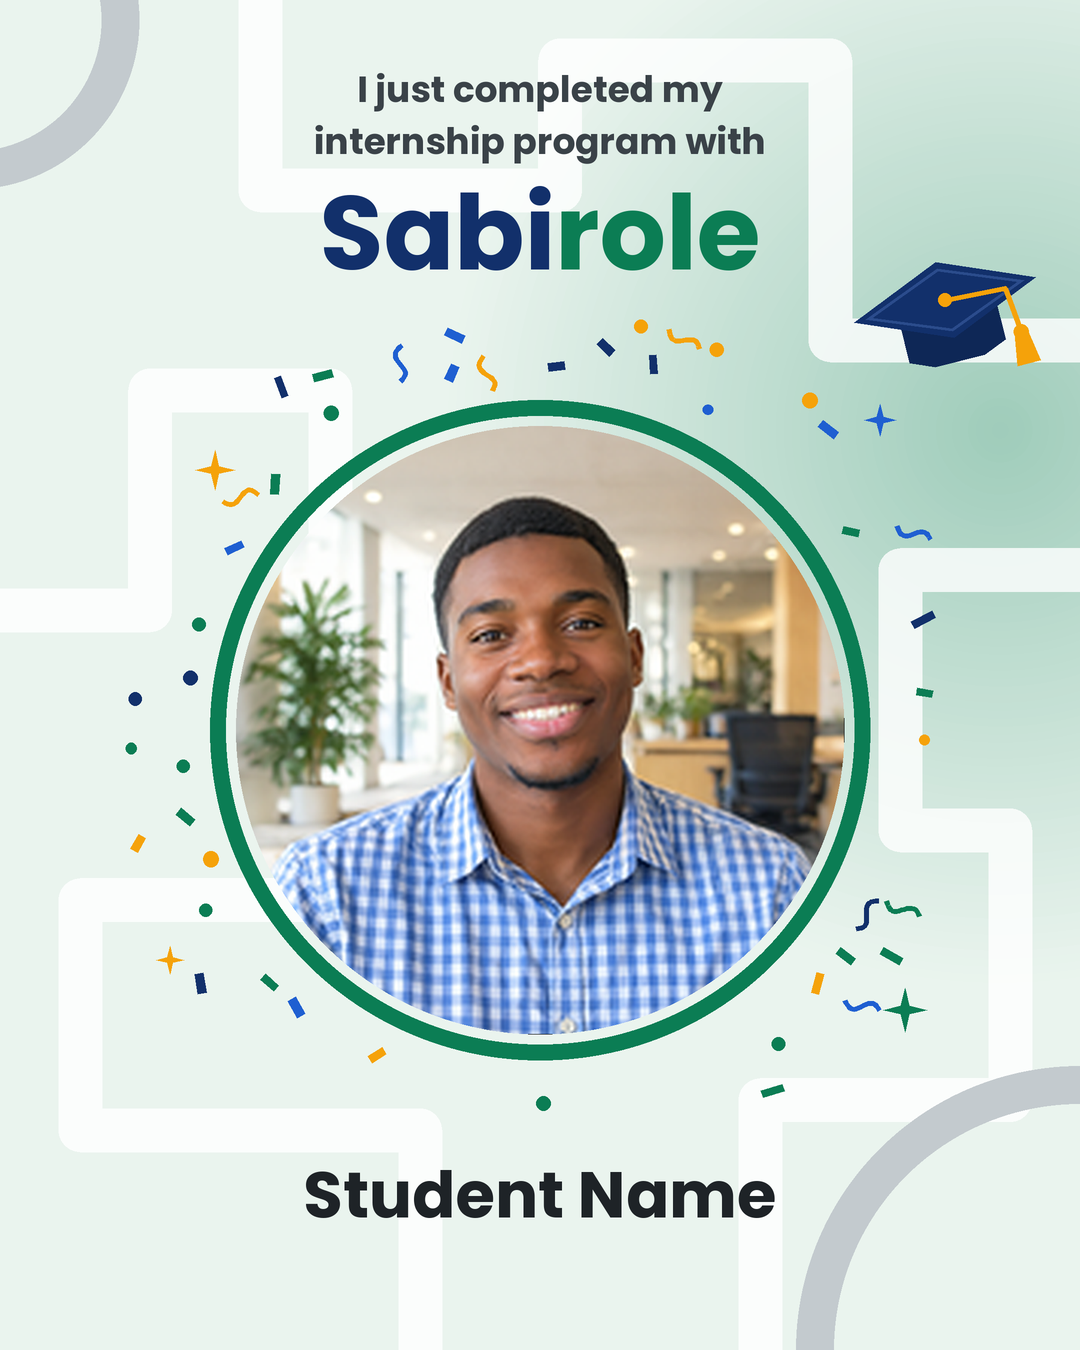
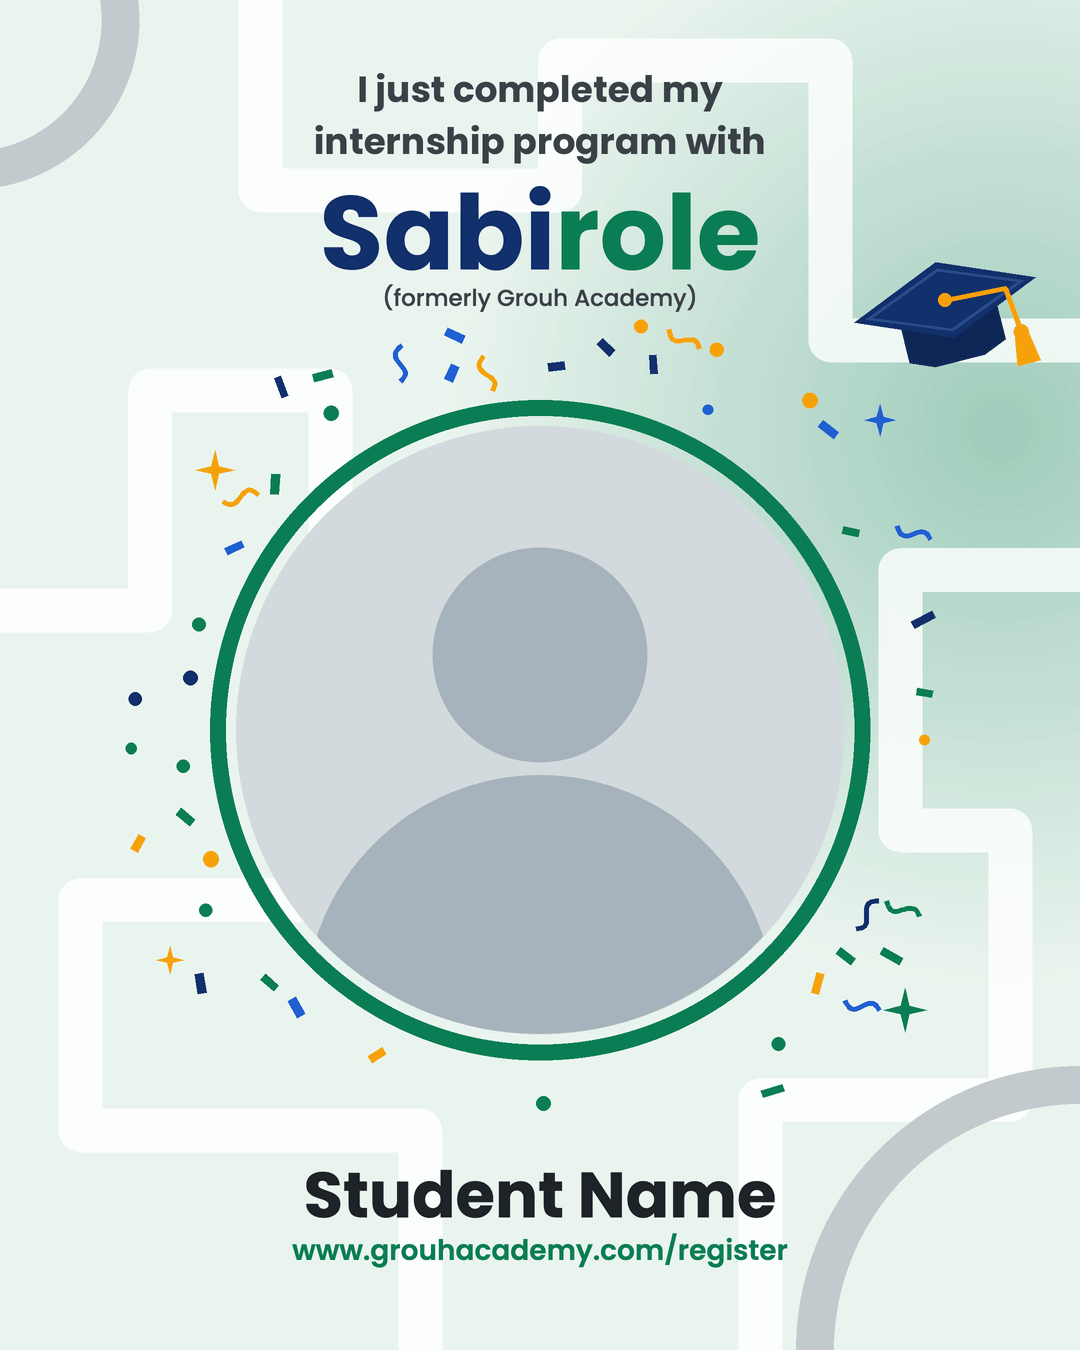
Graduation flyer: open on every login, silhouette preview, formerly Grouh Academy, register link
- The pop-up is the first thing a graduate sees after each login (keyed to
  Supabase's last_sign_in_at); the level-complete message waits for it.
- Before a photo is chosen, the preview is their own flyer with a person
  silhouette and their name (no stock photo); new silhouette sample.
- '(formerly Grouh Academy)' under the logo and
  'www.grouhacademy.com/register' under the name.

Changed region(s): [[0.2139, 0.3111, 0.7944, 0.7778], [0.275, 0.8711, 0.7333, 0.9333], [0.3667, 0.2178, 0.6417, 0.2489]]

diff --git a/components/graduation/GraduationModal.tsx b/components/graduation/GraduationModal.tsx
@@ -1,54 +1,73 @@
 "use client";
 
 import { ArrowLeft, X } from "lucide-react";
-import { usePathname } from "next/navigation";
 import { useEffect, useRef, useState } from "react";
+import { createSupabaseBrowserClient } from "@/lib/supabase/client";
 import ExperienceForm from "./ExperienceForm";
 import FlyerStep from "./FlyerStep";
 import {
   OPEN_GRADUATION_EVENT,
+  markGraduationSettled,
   useGraduation,
-  whenLevelCompleteSettled,
-  type GraduationData,
 } from "./graduation-data";
 
 // The graduation pop-up, on every internship page (InternshipShell). It
-// opens by itself once for a graduate (an intern with an internship
-// certificate) who hasn't made a flyer, after the level-complete
-// congratulations if that is showing; never for anyone who hasn't completed.
+// opens by itself, first thing, once every time a graduate (an intern with
+// an internship certificate) logs in; the level-complete congratulations
+// waits for it. Never for anyone who hasn't completed.
 // "My graduation flyer" (dashboard, testimonial page) and the admin preview
 // banner open it any time. Step 1 is the flyer; after they download or share
 // it, step 2 asks about their experience.
 
-const dismissKey = (data: GraduationData) => `sabirole-graduation-dismissed:${data.certificateId ?? "preview"}`;
+const SHOWN_KEY = "sabirole-graduation-shown";
 
-function stored(key: string) {
+/** This login: the user and when they signed in (changes every login). */
+async function currentLogin() {
   try {
-    return window.localStorage.getItem(key) === "1";
+    const { data } = await createSupabaseBrowserClient().auth.getSession();
+    const user = data.session?.user;
+    return user ? `${user.id}:${user.last_sign_in_at ?? ""}` : null;
+  } catch {
+    return null;
+  }
+}
+
+function shownFor(login: string) {
+  try {
+    return window.localStorage.getItem(SHOWN_KEY) === login;
   } catch {
     return false;
   }
 }
 
+function rememberShown(login: string) {
+  try {
+    window.localStorage.setItem(SHOWN_KEY, login);
+  } catch {
+    // Without storage it may open again on the next page.
+  }
+}
+
 export default function GraduationModal({ enabled }: { enabled: boolean }) {
-  const { data } = useGraduation(enabled);
-  const pathname = usePathname();
+  const { data, loaded } = useGraduation(enabled);
   const [open, setOpen] = useState(false);
   const [step, setStep] = useState<"flyer" | "experience">("flyer");
   const dialogRef = useRef<HTMLDivElement>(null);
   const returnFocus = useRef<HTMLElement | null>(null);
   const autoChecked = useRef(false);
 
-  // Open by itself, once, for a graduate without a flyer.
+  // Open by itself, once per login, for a graduate.
   useEffect(() => {
-    if (!data || autoChecked.current) return;
+    if (!enabled) return markGraduationSettled();
+    if (!loaded || autoChecked.current) return;
     autoChecked.current = true;
-    if (!data.graduated || data.flyerUrl || stored(dismissKey(data))) return;
-    // The dashboard first congratulates them on the level (LevelCompleteModal);
-    // the flyer follows when that closes (or doesn't show).
-    const ready = pathname === "/internship/dashboard" ? whenLevelCompleteSettled() : Promise.resolve();
-    void ready.then(() => setOpen(true));
-  }, [data, pathname]);
+    if (!data?.graduated) return markGraduationSettled();
+    void currentLogin().then((login) => {
+      if (login && shownFor(login)) return markGraduationSettled();
+      if (login) rememberShown(login);
+      setOpen(true);
+    });
+  }, [enabled, loaded, data]);
 
   // Opened on request.
   useEffect(() => {
@@ -90,19 +109,11 @@ export default function GraduationModal({ enabled }: { enabled: boolean }) {
     };
     document.addEventListener("keydown", onKey);
     return () => document.removeEventListener("keydown", onKey);
-    // close is stable enough for this listener's lifetime.
-    // eslint-disable-next-line react-hooks/exhaustive-deps
   }, [open, step]);
 
   function close() {
     setOpen(false);
-    if (data) {
-      try {
-        window.localStorage.setItem(dismissKey(data), "1");
-      } catch {
-        // Without storage it may open by itself again next visit.
-      }
-    }
+    markGraduationSettled();
     returnFocus.current?.focus?.();
   }
 

diff --git a/components/graduation/FlyerStep.tsx b/components/graduation/FlyerStep.tsx
@@ -1,5 +1,7 @@
 "use client";
 
+import "@fontsource/poppins/500.css";
+import "@fontsource/poppins/600.css";
 import "@fontsource/poppins/700.css";
 import { Download, ImagePlus, LoaderCircle, RotateCcw, Share2 } from "lucide-react";
 import { useCallback, useEffect, useRef, useState } from "react";
@@ -17,7 +19,7 @@ import {
   type Placement,
 } from "@/lib/flyer/layout";
 import { PHOTO_ERROR_MESSAGES, loadPhoto, warmUp, type FlyerPhotoError } from "@/lib/flyer/photo";
-import { drawFlyer, loadFlyerAssets, loadTemplate } from "@/lib/flyer/render";
+import { drawFlyer, loadFlyerAssets } from "@/lib/flyer/render";
 import { updateGraduation, type GraduationData } from "./graduation-data";
 
 // Step 1 of the graduation pop-up: the graduate uploads a photo and their
@@ -67,12 +69,37 @@ export default function FlyerStep({
   const savedRef = useRef<{ placement: Placement | null; url: string } | null>(null);
   const pointers = useRef(new Map<number, { x: number; y: number }>());
 
-  // Load the face detector and the template as soon as the pop-up opens.
+  // Load the face detector as soon as the pop-up opens.
   useEffect(() => {
     void warmUp();
-    void loadTemplate().catch(() => null);
     return () => photoRef.current?.close();
   }, []);
+
+  // Before a photo: their own flyer with a silhouette and their name.
+  const [preview, setPreview] = useState<string | null>(null);
+  useEffect(() => {
+    let url: string | null = null;
+    let cancelled = false;
+    void loadFlyerAssets(data.studentName)
+      .then((template) => {
+        const canvas = document.createElement("canvas");
+        canvas.width = FLYER_WIDTH;
+        canvas.height = FLYER_HEIGHT;
+        const context = canvas.getContext("2d");
+        if (!context) return;
+        drawFlyer(context, { template, photo: null, placement: null, name: data.studentName });
+        canvas.toBlob((blob) => {
+          if (!blob || cancelled) return;
+          url = URL.createObjectURL(blob);
+          setPreview(url);
+        }, "image/png");
+      })
+      .catch(() => null);
+    return () => {
+      cancelled = true;
+      if (url) URL.revokeObjectURL(url);
+    };
+  }, [data.studentName]);
 
   // Redraw whenever the photo's position or size changes.
   useEffect(() => {
@@ -275,11 +302,11 @@ export default function FlyerStep({
         ) : (
           // eslint-disable-next-line @next/next/no-img-element
           <img
-            src={showSaved ? data.flyerUrl! : "/flyer-sample.png"}
+            src={showSaved ? data.flyerUrl! : (preview ?? "/flyer-sample.png")}
             alt={
               showSaved
                 ? `Your saved graduation flyer with the name ${data.studentName}`
-                : "Sample graduation flyer: a graduate's photo in a green circle with confetti and a graduation cap, the words I just completed my internship program with Sabirole, and their name"
+                : `Your graduation flyer, waiting for your photo: a person silhouette in a green circle with confetti and a graduation cap, the words I just completed my internship program with Sabirole, and the name ${data.studentName}`
             }
             width={FLYER_WIDTH}
             height={FLYER_HEIGHT}
@@ -293,7 +320,7 @@ export default function FlyerStep({
           </div>
         )}
         {!ready && !showSaved && !working && (
-          <span className="absolute left-2 top-2 rounded-full bg-white/90 px-2 py-0.5 text-[10px] font-bold text-[#1C1D52]">Sample</span>
+          <span className="absolute left-2 top-2 rounded-full bg-white/90 px-2 py-0.5 text-[10px] font-bold text-[#1C1D52]">Preview</span>
         )}
       </div>
 

diff --git a/lib/flyer/render.ts b/lib/flyer/render.ts
@@ -1,17 +1,22 @@
 import {
   FLYER_HEIGHT,
+  FLYER_NOTES,
   FLYER_TEMPLATE_URL,
   FLYER_WIDTH,
   NAME_STYLE,
   PHOTO_CIRCLE,
+  SILHOUETTE,
   fitNameSize,
   type Placement,
 } from "./layout";
 
 // Draws the graduation flyer (2160 x 2700) in three layers:
 //  1. the template image (background, headline, ring, confetti, cap);
-//  2. the graduate's photo, exactly as uploaded, clipped to the circle;
-//  3. their name, in Poppins Bold.
+//  2. the graduate's photo, exactly as uploaded, clipped to the circle
+//     (before they upload one: a plain person silhouette);
+//  3. their name, in Poppins Bold;
+//  4. "(formerly Grouh Academy)" under the logo, and the register link
+//     under the name.
 // The caller waits for the template and the font first (loadFlyerAssets).
 
 type Context = CanvasRenderingContext2D;
@@ -39,6 +44,9 @@ export async function loadFlyerAssets(name: string) {
   const [image] = await Promise.all([
     loadTemplate(),
     document.fonts.load(`${NAME_STYLE.weight} ${NAME_STYLE.size}px ${NAME_STYLE.family}`, name || "Student Name"),
+    ...Object.values(FLYER_NOTES).map((note) =>
+      document.fonts.load(`${note.weight} ${note.size}px ${NAME_STYLE.family}`, note.text),
+    ),
   ]);
   return image;
 }
@@ -55,6 +63,25 @@ function drawPhoto(ctx: Context, photo: Drawable, placement: Placement) {
   ctx.restore();
 }
 
+/** A generic person silhouette (head and shoulders) for the empty circle. */
+function drawSilhouette(ctx: Context) {
+  const { x, y, radius } = PHOTO_CIRCLE;
+  ctx.save();
+  ctx.beginPath();
+  ctx.arc(x, y, radius, 0, Math.PI * 2);
+  ctx.clip();
+  ctx.fillStyle = SILHOUETTE.background;
+  ctx.fillRect(x - radius, y - radius, radius * 2, radius * 2);
+  ctx.fillStyle = SILHOUETTE.figure;
+  ctx.beginPath();
+  ctx.arc(x, y - 150, 215, 0, Math.PI * 2);
+  ctx.fill();
+  ctx.beginPath();
+  ctx.ellipse(x, y + 560, 470, 470, 0, 0, Math.PI * 2);
+  ctx.fill();
+  ctx.restore();
+}
+
 function drawName(ctx: Context, name: string) {
   ctx.save();
   const font = (size: number) => `${NAME_STYLE.weight} ${size}px ${NAME_STYLE.family}`;
@@ -68,7 +95,19 @@ function drawName(ctx: Context, name: string) {
   ctx.textBaseline = "alphabetic";
   // Place the top of the capitals at NAME_STYLE.capTop, whatever the size.
   const capHeight = ctx.measureText("H").actualBoundingBoxAscent;
-  ctx.fillText(name, NAME_STYLE.x, NAME_STYLE.capTop + capHeight);
+  const baseline = NAME_STYLE.capTop + capHeight;
+  ctx.fillText(name, NAME_STYLE.x, baseline);
+  ctx.restore();
+  return baseline;
+}
+
+function drawNote(ctx: Context, note: { text: string; weight: number; size: number; color: string; x: number }, baseline: number) {
+  ctx.save();
+  ctx.font = `${note.weight} ${note.size}px ${NAME_STYLE.family}`;
+  ctx.fillStyle = note.color;
+  ctx.textAlign = "center";
+  ctx.textBaseline = "alphabetic";
+  ctx.fillText(note.text, note.x, baseline);
   ctx.restore();
 }
 
@@ -85,6 +124,10 @@ export function drawFlyer(
   ctx.clearRect(0, 0, FLYER_WIDTH, FLYER_HEIGHT);
   ctx.drawImage(template, 0, 0, FLYER_WIDTH, FLYER_HEIGHT);
   if (photo && placement) drawPhoto(ctx, photo, placement);
-  if (name) drawName(ctx, name);
+  else drawSilhouette(ctx);
+  drawNote(ctx, FLYER_NOTES.formerly, FLYER_NOTES.formerly.baseline);
+  // The link sits a fixed gap below the name's baseline (cap height of the link text).
+  const nameBaseline = name ? drawName(ctx, name) : NAME_STYLE.capTop + NAME_STYLE.size * 0.74;
+  drawNote(ctx, FLYER_NOTES.website, nameBaseline + FLYER_NOTES.website.gap + FLYER_NOTES.website.size * 0.74);
   ctx.restore();
 }

diff --git a/components/LevelCompleteModal.tsx b/components/LevelCompleteModal.tsx
@@ -3,7 +3,7 @@
 import { ArrowRight, Award, Download, PartyPopper, X } from "lucide-react";
 import Link from "next/link";
 import { useEffect, useState } from "react";
-import { markLevelCompleteSettled } from "./graduation/graduation-data";
+import { whenGraduationSettled } from "./graduation/graduation-data";
 
 type Progression = {
   programName: string;
@@ -29,8 +29,7 @@ export default function LevelCompleteModal() {
     fetch("/api/internship/progression", { cache: "no-store" })
       .then((response) => (response.ok ? response.json() : null))
       .then((data: Progression | null) => {
-        // The graduation flyer pop-up waits for this one (graduation-data).
-        if (!data?.certificateId || data.queuedApplicationId) return markLevelCompleteSettled();
+        if (!data?.certificateId || data.queuedApplicationId) return;
         let dismissed = false;
         try {
           dismissed =
@@ -38,16 +37,16 @@ export default function LevelCompleteModal() {
         } catch {
           // Storage unavailable: show it this time.
         }
+        if (dismissed) return;
         setProgression(data);
-        setOpen(!dismissed);
-        if (dismissed) markLevelCompleteSettled();
+        // After the graduation pop-up, which a graduate sees first.
+        void whenGraduationSettled().then(() => setOpen(true));
       })
-      .catch(() => markLevelCompleteSettled());
+      .catch(() => null);
   }, []);
 
   const close = () => {
     setOpen(false);
-    markLevelCompleteSettled();
     if (!progression?.certificateId) return;
     try {
       window.localStorage.setItem(dismissKey(progression.certificateId), "1");

diff --git a/components/graduation/graduation-data.ts b/components/graduation/graduation-data.ts
@@ -30,17 +30,18 @@ export type GraduationData = {
 
 /** Opens the graduation pop-up (dashboard button, preview banner, …). */
 export const OPEN_GRADUATION_EVENT = "sabirole:open-graduation";
-// The dashboard's level-complete congratulations (LevelCompleteModal) goes
-// first; the flyer pop-up waits until it is closed or decides not to show.
-let settleLevelComplete: () => void = () => {};
-const levelCompleteSettled = new Promise<void>((resolve) => {
-  settleLevelComplete = resolve;
+// The graduation pop-up is the first thing a graduate sees after logging
+// in; the dashboard's level-complete congratulations (LevelCompleteModal)
+// waits until it is closed or decides not to open.
+let settleGraduation: () => void = () => {};
+const graduationSettled = new Promise<void>((resolve) => {
+  settleGraduation = resolve;
 });
-export function markLevelCompleteSettled() {
-  settleLevelComplete();
+export function markGraduationSettled() {
+  settleGraduation();
 }
-export function whenLevelCompleteSettled() {
-  return levelCompleteSettled;
+export function whenGraduationSettled() {
+  return graduationSettled;
 }
 
 export function openGraduation(step: "flyer" | "experience" = "flyer") {

diff --git a/lib/flyer/layout.ts b/lib/flyer/layout.ts
@@ -11,6 +11,9 @@ export const FLYER_TEMPLATE_URL = "/flyer-template.png";
 /** The grey circle in the template: the photo replaces it completely. */
 export const PHOTO_CIRCLE = { x: 1080, y: 1460, radius: 608 } as const;
 
+/** The placeholder person shown in the circle before a photo is chosen. */
+export const SILHOUETTE = { background: "#D3DADE", figure: "#A7B3BC" } as const;
+
 /** Where a detected face is placed (about). */
 export const FACE_TARGET = { x: 1080, y: 1200 } as const;
 
@@ -30,6 +33,12 @@ export const NAME_STYLE = {
    */
   capTop: 2345,
   maxWidth: 1840,
+} as const;
+
+/** Small lines drawn on the template: under the logo, and under the name. */
+export const FLYER_NOTES = {
+  formerly: { text: "(formerly Grouh Academy)", weight: 500, size: 46, color: "#3A4248", x: 1080, baseline: 612 },
+  website: { text: "www.grouhacademy.com/register", weight: 600, size: 56, color: "#0B7D54", x: 1080, gap: 44 },
 } as const;
 
 export const SHARE_CAPTION = "I just completed my internship program with Sabirole.";

diff --git a/tests/flyer.test.ts b/tests/flyer.test.ts
@@ -6,6 +6,7 @@ import test from "node:test";
 import {
   FACE_TARGET,
   FLYER_HEIGHT,
+  FLYER_NOTES,
   FLYER_WIDTH,
   MAX_ZOOM,
   NAME_STYLE,
@@ -106,4 +107,9 @@ test("download name and share caption", () => {
   assert.doesNotMatch(SHARE_CAPTION, /job|hired|offer|employ/i);
   const names = shareLinks("https://x.supabase.co/f.png").map((l) => l.name);
   assert.deepEqual(names, ["WhatsApp", "LinkedIn", "X", "Facebook"]);
+});
+
+test("the flyer says Sabirole was Grouh Academy, and where to register", () => {
+  assert.equal(FLYER_NOTES.formerly.text, "(formerly Grouh Academy)");
+  assert.equal(FLYER_NOTES.website.text, "www.grouhacademy.com/register");
 });
